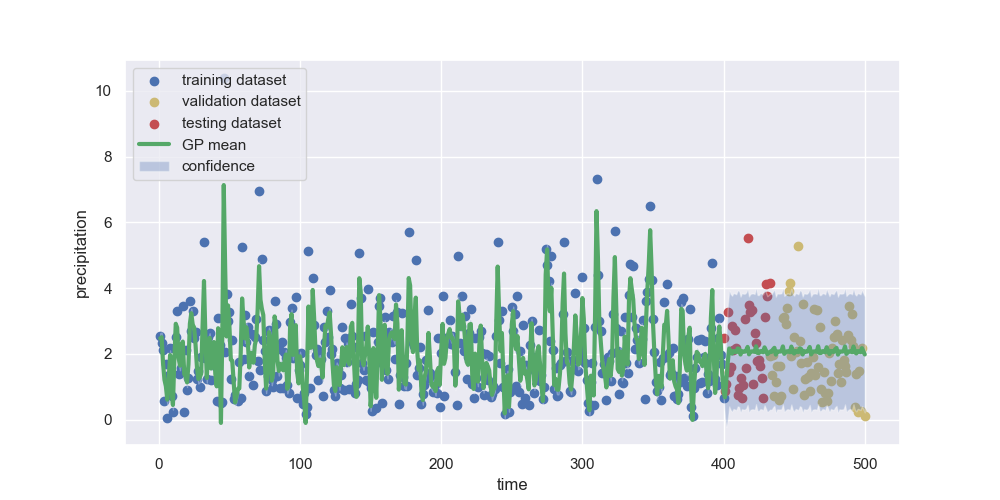
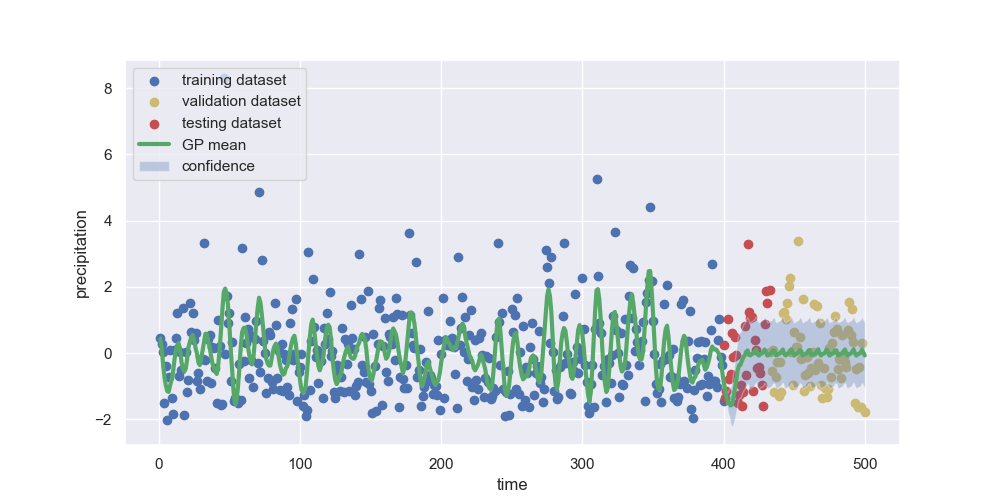
Subtract mean from precipitation to model residuals

diff --git a/optimise.py b/optimise.py
@@ -61,14 +61,15 @@ def fit_gp(hyperparameters: np.ndarray) -> float:
     """
 
     loss = 0
+    y_mean = y_train.mean()
     for i in range(hyperparameters.shape[0]):
 
         # TODO: try a different model type, like sparseGP
         kernel = GPy.kern.RBF(1, lengthscale=hyperparameters[i, 0], variance=hyperparameters[i, 3]) + \
                  GPy.kern.StdPeriodic(1, lengthscale=hyperparameters[i, 1]) * \
                  GPy.kern.PeriodicMatern32(1, lengthscale=hyperparameters[i, 2], variance=hyperparameters[i, 4])
-        model = GPy.models.GPRegression(x_train.reshape(-1, 1), y_train.reshape(-1, 1), kernel=kernel, normalizer=True,
-                                        noise_var=0.05)
+        model = GPy.models.GPRegression(x_train.reshape(-1, 1), (y_train-y_mean).reshape(-1, 1), kernel=kernel,
+                                        normalizer=True, noise_var=0.05)
 
         # Here we must *only* predict on the validation set, not on all the values.
         # We want to tune the hyperparameters using just this data.
@@ -168,13 +169,14 @@ def optimise(maximum_iterations: int = 10, dom_tuples: list[tuple] = None, model
 
     # Get the optimised hyperparameters.
     optimal_hparams = opt.X[np.argmin(opt.Y)]
+    y_mean = y_train.mean()
 
     kernel = GPy.kern.RBF(1, lengthscale=optimal_hparams[0], variance=optimal_hparams[3]) + \
         GPy.kern.StdPeriodic(1, lengthscale=optimal_hparams[1]) * \
         GPy.kern.PeriodicMatern32(1, lengthscale=optimal_hparams[2], variance=optimal_hparams[4])
 
-    model = GPy.models.GPRegression(x_train.reshape(-1, 1), y_train.reshape(-1, 1), kernel=kernel, normalizer=True,
-                                    noise_var=0.05)
+    model = GPy.models.GPRegression(x_train.reshape(-1, 1), (y_train-y_mean).reshape(-1, 1), kernel=kernel,
+                                    normalizer=False, noise_var=0.05)
 
     # We are done optimising, so we can now make predictions
     # for the entire dataset, including the test set.
@@ -204,9 +206,9 @@ def plot_fitted_model(x_train: np.ndarray, x_valid: np.ndarray, x_test: np.ndarr
     plt.figure(figsize=(10, 5), dpi=100)
     plt.xlabel("time")
     plt.ylabel("precipitation")
-    plt.scatter(x_train, y_train, lw=1, color="b", label="training dataset")
-    plt.scatter(x_valid, y_valid, lw=1, color="y", label="validation dataset")
-    plt.scatter(x_test, y_test, lw=1, color="r", label="testing dataset")
+    plt.scatter(x_train, y_train-y_train.mean(), lw=1, color="b", label="training dataset")
+    plt.scatter(x_valid, y_valid-y_valid.mean(), lw=1, color="y", label="validation dataset")
+    plt.scatter(x_test, y_test-y_test.mean(), lw=1, color="r", label="testing dataset")
     plt.plot(x_all, y_mean, lw=3, color="g", label="GP mean")
     plt.fill_between(x_all, (y_mean + y_std).reshape(y_mean.shape[0]), (y_mean - y_std).reshape(y_mean.shape[0]),
                      facecolor="b", alpha=0.3, label="confidence")
